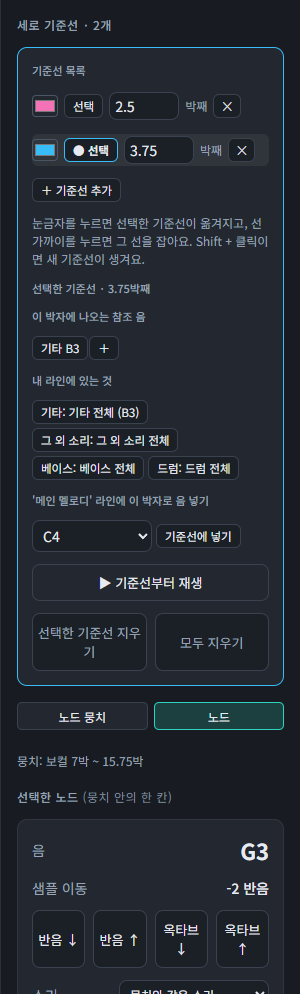
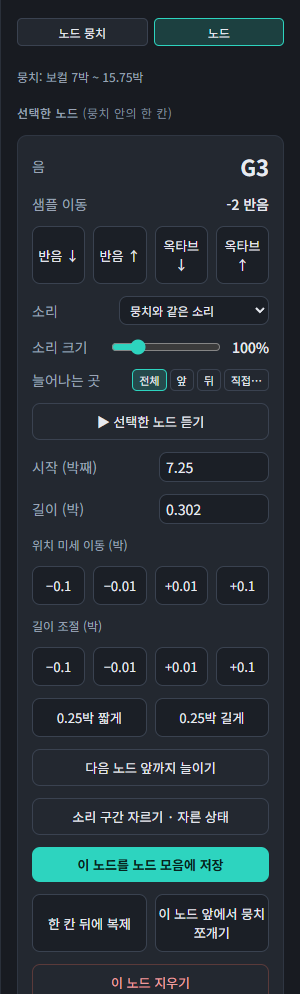
Help text: drop example; guide: correct node card screenshots

diff --git a/app/static/lang_en.js b/app/static/lang_en.js
@@ -521,7 +521,7 @@ export const EXACT = {
 "만든 노드는 원본 소리를 보정 없이 그대로 들려줘요. 음높이나 길이를 크게 바꾸면 그 음만 합성으로 맞춰요. 노드는 자기 구간을 따로 기억해서, 샘플의 쓰는 구간을 바꿔도 변하지 않아요.": "A node made this way plays the original sound as recorded, without correction. If you change its pitch or length a lot, only that note is fitted by synthesis. The node remembers its own cut, so changing the range in use of the sample does not change it.",
 "샘플의 \"기준음\"(처음 소리의 높이)은 자동으로 찾아요. 이 음을 기준으로 다른 음높이가 만들어져요. 음높이를 찾지 못한 소리(짧은 말소리나 타격음)는 라(A3)를 기준으로 소리를 빠르게 또는 느리게 해서 음을 맞춰요.": "The sample's “root note” (the pitch of its first sound) is found automatically. Other pitches are made relative to it. A sound whose pitch cannot be found (a short spoken word or a hit) is fitted to the notes by playing it faster or slower, taking A3 as its pitch.",
 "참조곡 레인 이름 옆의 ⧉ 버튼을 누르면 그 레인의 음 전체가 내 라인의 새 라인으로 복사돼요. 정밀 분석으로 나눈 베이스 레인을 통째로 가져올 때 좋아요. 여러 음이 섞인 레인은 아래 옵션에 따라 멜로디 후보만 가져오거나 모든 음을 가져와요.": "The ⧉ button next to a reference lane name copies all notes of that lane to a new line in My Lines. It is handy for taking, say, the bass lane of a precise analysis as a whole. For lanes with mixed notes, either only the melody candidates or every note is taken, depending on the option below.",
-"여러 소리가 든 잘라낸 소리(예: 야 / 임 / 마)를 참조곡 구간에 놓으면, 잘라낸 소리 전체를 그 구간에 맞춰 펴고 조각을 멜로디 음에 순서대로 배정해요. 음이 조각보다 많으면 조각 하나가 이어진 음 여러 개를 맡고, 조각이 음보다 많으면 음 하나가 이어진 조각 여러 개를 맡아요.": "When you drop a trimmed sound with several sounds in it (for example ya / im / ma) on a reference range, the whole trimmed sound is stretched to fit the range and its pieces are given to the melody notes in order. With more notes than pieces, a piece holds several notes in a row; with more pieces than notes, a note takes several pieces in a row.",
+"여러 소리가 든 잘라낸 소리를 참조곡 구간에 놓으면, 잘라낸 소리 전체를 그 구간에 맞춰 펴고 조각을 멜로디 음에 순서대로 배정해요. 음이 조각보다 많으면 조각 하나가 이어진 음 여러 개를 맡고, 조각이 음보다 많으면 음 하나가 이어진 조각 여러 개를 맡아요.": "When you drop a trimmed sound with several sounds in it (for example ya / im / ma) on a reference range, the whole trimmed sound is stretched to fit the range and its pieces are given to the melody notes in order. With more notes than pieces, a piece holds several notes in a row; with more pieces than notes, a note takes several pieces in a row.",
 "참조곡에서 가져오는 음은 참조곡과 같은 높이예요. 샘플의 기준음에서 많이 멀면 소리가 부자연스러울 수 있어요. 구간 위쪽의 \"섞인 레인은 멜로디 후보 한 줄만\"을 끄면 피아노 같은 섞인 레인의 모든 음을 가져와요.": "Notes taken from the reference song have the same pitch as in the song. If that is far from the root note of the sample, the sound may become unnatural. Turn off “Mixed lanes: melody candidates only” above the range to take every note of a mixed lane such as piano.",
 "오른쪽 위의 \"노드 뭉치 / 노드\" 탭은 지금 무엇을 고치는지 보여 줘요. 노드를 고르면 \"노드\" 탭이 켜지고, \"노드 뭉치\" 탭을 누르면 뭉치 전체로 돌아가요. 뭉치를 고른 상태에서 \"노드\" 탭을 누르면 라인이 \"크게\"로 바뀌고 뭉치의 첫 노드가 열려요.": "The “Node bundle / Node” tabs at the top right show what you are editing right now. Select a node and the “Node” tab turns on; press the “Node bundle” tab to return to the whole bundle. With a bundle selected, pressing the “Node” tab switches the line to “Large” and opens the first node of the bundle.",
 "노드마다 소리를 따로 정해요(노드 카드의 \"소리\"). 새로 놓는 노드는 그 라인에서 마지막으로 고른 소리로 시작해요. 참조곡에서 온 노드는 \"참조곡의 원래 소리\"를 고르면 샘플 대신 그 레인의 실제 연주가 나와요(음높이는 바뀌지 않아요).": "Each node has its own sound (“Sound” on the node card). A node you place starts with the sound last chosen on that line. For a node taken from the reference song, choose “Original sound of the reference song” to play the actual performance of that lane instead of a sample (its pitch does not change).",

diff --git a/app/static/app.js b/app/static/app.js
@@ -226,7 +226,7 @@ const HELP = [
   { id: 'node', title: '노드와 라인', body: [
     ['p', '노드는 "어떤 음들을 어떤 길이로 연주할지"를 담은 덩어리예요. 라인은 노드를 놓는 한 줄이에요(메인 멜로디, 베이스 등).'],
     ['h', '노드 만들기'],
-    ['ul', ['참조곡 레인에서 구간을 끌어 고르고, 왼쪽 샘플을 끌어다 놓으면 그 구간의 음으로 노드가 만들어져요.', '샘플을 눌러 "든" 뒤 선택한 구간을 눌러도 돼요.', '"노드 모음"에 저장해 둔 노드는 라인으로 끌어다 놓거나, 눌러서 "선택 라인에 추가"해요.', '라인의 빈 곳을 두 번 누르면 음을 직접 추가해요.', '참조곡 레인 이름 옆의 ⧉ 버튼을 누르면 그 레인의 음 전체가 내 라인의 새 라인으로 복사돼요. 정밀 분석으로 나눈 베이스 레인을 통째로 가져올 때 좋아요. 여러 음이 섞인 레인은 아래 옵션에 따라 멜로디 후보만 가져오거나 모든 음을 가져와요.', '여러 소리가 든 잘라낸 소리(예: 야 / 임 / 마)를 참조곡 구간에 놓으면, 잘라낸 소리 전체를 그 구간에 맞춰 펴고 조각을 멜로디 음에 순서대로 배정해요. 음이 조각보다 많으면 조각 하나가 이어진 음 여러 개를 맡고, 조각이 음보다 많으면 음 하나가 이어진 조각 여러 개를 맡아요.', '참조곡에서 가져오는 음은 참조곡과 같은 높이예요. 샘플의 기준음에서 많이 멀면 소리가 부자연스러울 수 있어요. 구간 위쪽의 "섞인 레인은 멜로디 후보 한 줄만"을 끄면 피아노 같은 섞인 레인의 모든 음을 가져와요.']],
+    ['ul', ['참조곡 레인에서 구간을 끌어 고르고, 왼쪽 샘플을 끌어다 놓으면 그 구간의 음으로 노드가 만들어져요.', '샘플을 눌러 "든" 뒤 선택한 구간을 눌러도 돼요.', '"노드 모음"에 저장해 둔 노드는 라인으로 끌어다 놓거나, 눌러서 "선택 라인에 추가"해요.', '라인의 빈 곳을 두 번 누르면 음을 직접 추가해요.', '참조곡 레인 이름 옆의 ⧉ 버튼을 누르면 그 레인의 음 전체가 내 라인의 새 라인으로 복사돼요. 정밀 분석으로 나눈 베이스 레인을 통째로 가져올 때 좋아요. 여러 음이 섞인 레인은 아래 옵션에 따라 멜로디 후보만 가져오거나 모든 음을 가져와요.', '여러 소리가 든 잘라낸 소리를 참조곡 구간에 놓으면, 잘라낸 소리 전체를 그 구간에 맞춰 펴고 조각을 멜로디 음에 순서대로 배정해요. 음이 조각보다 많으면 조각 하나가 이어진 음 여러 개를 맡고, 조각이 음보다 많으면 음 하나가 이어진 조각 여러 개를 맡아요.', '참조곡에서 가져오는 음은 참조곡과 같은 높이예요. 샘플의 기준음에서 많이 멀면 소리가 부자연스러울 수 있어요. 구간 위쪽의 "섞인 레인은 멜로디 후보 한 줄만"을 끄면 피아노 같은 섞인 레인의 모든 음을 가져와요.']],
     ['h', '참조곡 구간 → 노드 모음 → 노드 편집'],
     ['ol', ['참조곡에서 구간을 끌어 고르고 왼쪽 샘플을 끌어다 놓으면 "어디에 넣을까요?" 창이 떠요. 내 라인 중 하나를 고르면 그 라인에 놓이고 노드 모음에도 자동으로 저장돼요. "노드 모음에만 넣기"를 고르면 라인에는 놓지 않고 노드 뭉치만 노드 모음에 들어가요.', '노드 모음의 뭉치를 누르면 아래에 버튼이 나와요. "노드 편집"(또는 두 번 누르기)으로 편집 창을 열어요.', '편집 창에서 뭉치 안의 노드를 하나씩 고르고 음높이, 위치, 길이를 고치거나 지워요. 끌어서 옮길 수도 있어요.', '고른 노드(또는 전부 하나씩)를 "노드 모음에 따로 저장"해서 새 항목으로 내보낼 수 있어요.', '다 만든 뭉치는 노드 모음에서 라인으로 끌어다 놓아요. 라인의 빈 곳에 놓으면 그 위치에, 라인 이름 칸에 놓으면 그 라인의 첫 빈자리에 놓여요. 라인이 화면 밖에 있으면 끈 채로 타임라인의 아래 가장자리로 가져가면 스크롤돼요.']],
     ['h', '말 박자 맞추기 (보컬, 랩, 대사)'],
